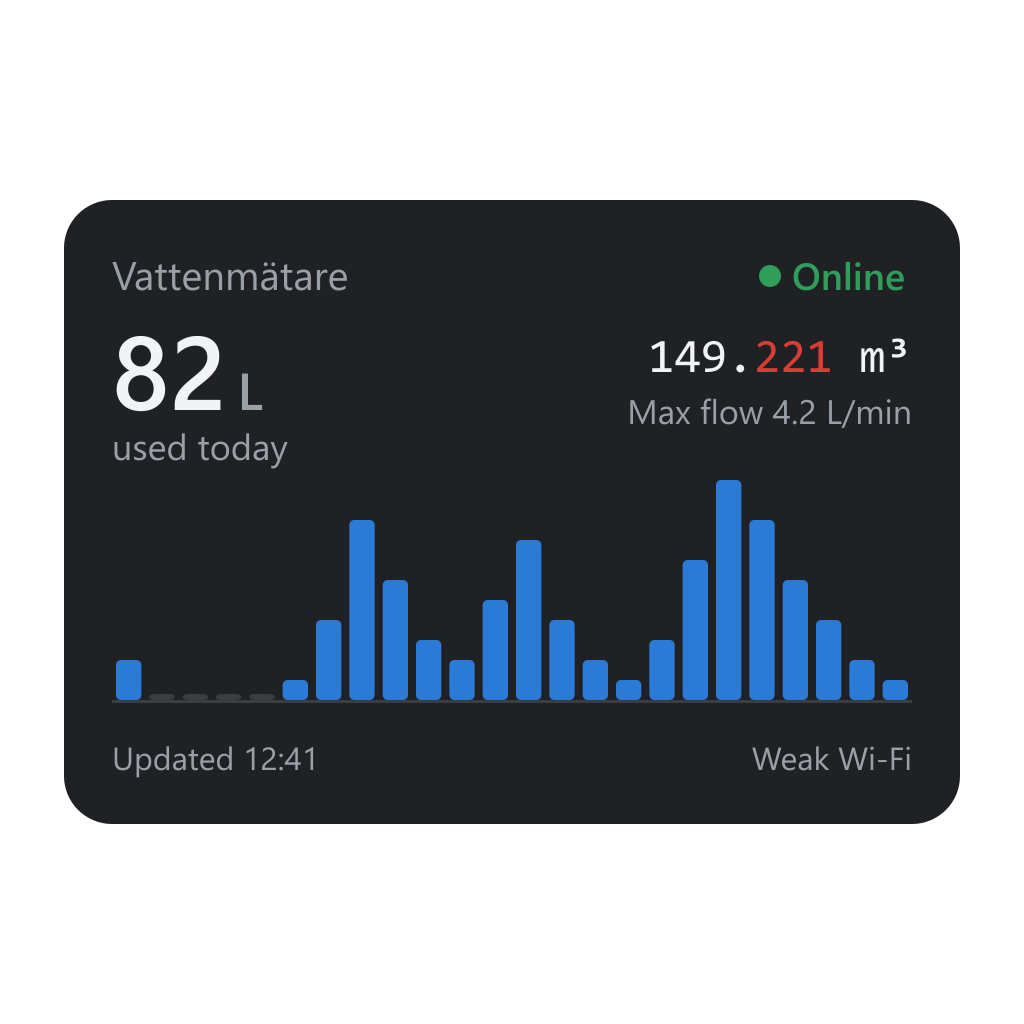
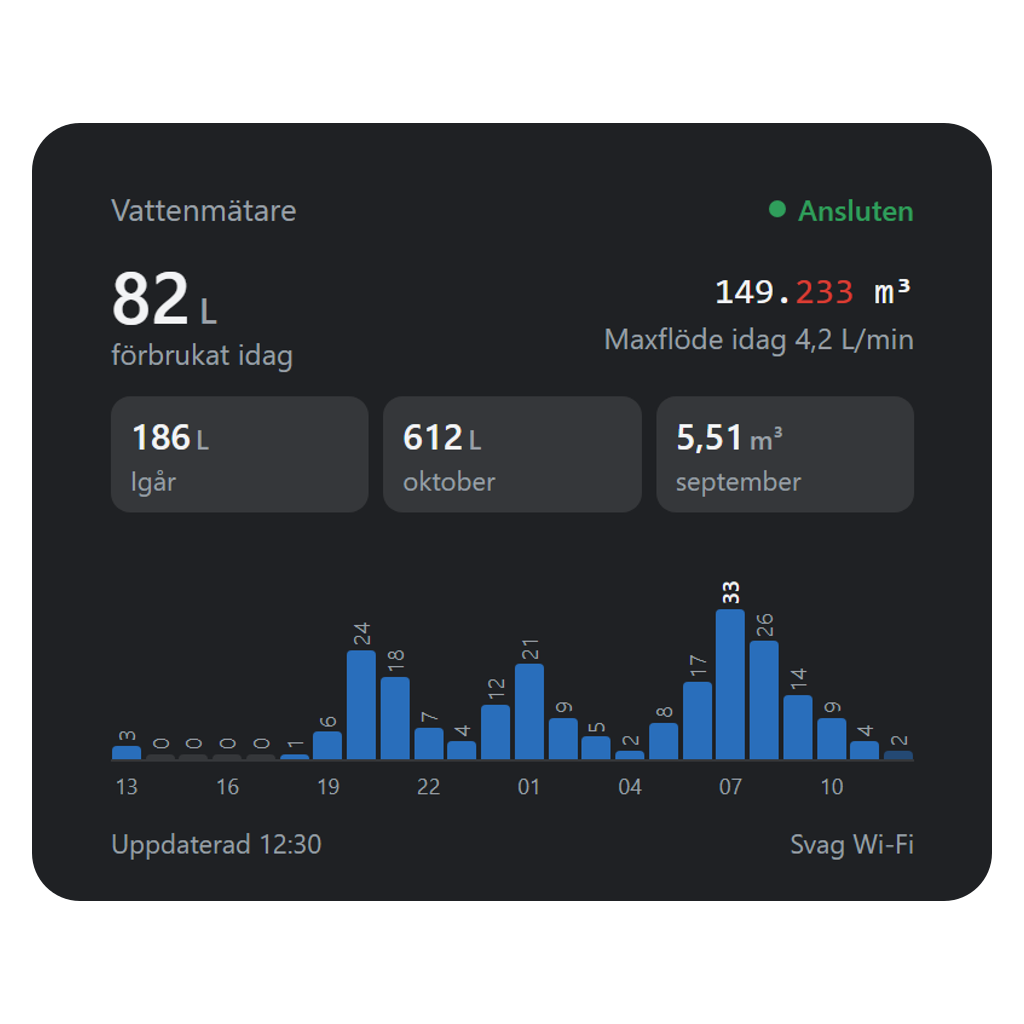
Widget: show litres per hour, yesterday and monthly use
- Print each hour's use above its bar in the 24 h chart
- Add yesterday, this month and last month; the device stores the
  meter reading at the start of each day and month and keeps the
  total of the period that just ended
- Periods not seen from their start (after install, or Homey off at
  midnight) are marked partial and shown as "at least"
- Taller widget and new preview images rendered from the real widget

Changed region(s): [[0.0312, 0.0938, 0.9688, 0.9062], [0.0938, 0.25, 0.3438, 0.5], [0.375, 0.4062, 0.4688, 0.5]]

diff --git a/widgets/water-meter/public/index.html b/widgets/water-meter/public/index.html
@@ -28,11 +28,22 @@
       .wm-side { display: grid; justify-items: end; gap: 2px; text-align: right; }
       .wm-total { font-family: ui-monospace, "SF Mono", Menlo, Consolas, monospace; font-size: 15px; font-variant-numeric: tabular-nums; }
       .wm-total .red { color: var(--wm-bad); }
-      .wm-chart { display: flex; align-items: flex-end; gap: 2px; height: 64px; border-bottom: 1px solid var(--wm-line); }
-      .wm-chart i { flex: 1; min-height: 1px; background: var(--wm-accent); border-radius: 2px 2px 0 0; opacity: 0.85; }
-      .wm-chart i.zero { background: var(--wm-line); opacity: 1; }
-      .wm-chart i.now { opacity: 0.45; }
-      .wm-ticks { display: flex; justify-content: space-between; font-size: 10px; color: var(--wm-muted); margin-top: -6px; font-variant-numeric: tabular-nums; }
+
+      .wm-periods { display: grid; grid-template-columns: repeat(3, minmax(0, 1fr)); gap: 6px; }
+      .wm-period { display: grid; gap: 1px; padding: 6px 8px; border-radius: 8px; background: var(--wm-line); min-width: 0; }
+      .wm-period b { font-size: 15px; font-weight: 600; font-variant-numeric: tabular-nums; white-space: nowrap; }
+      .wm-period b small { font-size: 11px; font-weight: 500; color: var(--wm-muted); margin-left: 2px; }
+      .wm-period span { font-size: 11px; color: var(--wm-muted); white-space: nowrap; overflow: hidden; text-overflow: ellipsis; }
+
+      .wm-chart { display: flex; align-items: stretch; gap: 1px; height: 92px; border-bottom: 1px solid var(--wm-line); }
+      .wm-col { flex: 1; min-width: 0; display: flex; flex-direction: column; justify-content: flex-end; align-items: center; gap: 2px; }
+      .wm-col em { font-style: normal; font-size: 9px; line-height: 1; color: var(--wm-muted); font-variant-numeric: tabular-nums; writing-mode: vertical-rl; transform: rotate(180deg); }
+      .wm-col.peak em { color: var(--wm-text); font-weight: 600; }
+      .wm-col i { display: block; width: 100%; max-width: 12px; background: var(--wm-accent); border-radius: 2px 2px 0 0; opacity: 0.85; }
+      .wm-col i.zero { background: var(--wm-line); opacity: 1; }
+      .wm-col.now i { opacity: 0.45; }
+      .wm-hours { display: flex; gap: 1px; margin-top: -6px; }
+      .wm-hours span { flex: 1; min-width: 0; text-align: center; font-size: 9px; color: var(--wm-muted); font-variant-numeric: tabular-nums; }
       .wm-foot { font-size: 11px; color: var(--wm-muted); }
       .wm-empty { font-size: 13px; color: var(--wm-muted); text-align: center; padding: 40px 8px; }
     </style>
@@ -40,22 +51,24 @@
 
   <body class="homey-widget">
     <div class="wm" id="wm">
-      <div class="wm-empty" id="empty">…</div>
+      <div class="wm-empty">…</div>
     </div>
 
     <script type="text/javascript">
       const TEXT = {
         en: {
-          today: 'used today', since: 'since midnight', flow: 'Flow', maxFlow: 'Max flow today',
+          today: 'used today', flow: 'Flow', maxFlow: 'Max flow today',
+          yesterday: 'Yesterday', thisMonth: 'This month', lastMonth: 'Last month', partial: 'partial',
           online: 'Online', offline: 'Offline', noDevice: 'Add a wimbib device to see your water use.',
-          noData: 'Waiting for the first reading…', updated: 'Updated', hours: 'Last 24 h',
+          noData: 'Hourly use appears after the first full hour.', updated: 'Updated', perHour: 'L per hour',
           alarm: { leak: 'Leak alarm', burst: 'Burst alarm', dry: 'Dry alarm', reverse: 'Reverse flow' },
           signal: { good: 'Good Wi-Fi', fair: 'Fair Wi-Fi', weak: 'Weak Wi-Fi', poor: 'Poor Wi-Fi' },
         },
         sv: {
-          today: 'förbrukat idag', since: 'sedan midnatt', flow: 'Flöde', maxFlow: 'Maxflöde idag',
+          today: 'förbrukat idag', flow: 'Flöde', maxFlow: 'Maxflöde idag',
+          yesterday: 'Igår', thisMonth: 'Denna månad', lastMonth: 'Förra månaden', partial: 'ofullständig',
           online: 'Ansluten', offline: 'Ej ansluten', noDevice: 'Lägg till en wimbib-enhet för att se din vattenförbrukning.',
-          noData: 'Väntar på första avläsningen…', updated: 'Uppdaterad', hours: 'Senaste 24 h',
+          noData: 'Förbrukning per timme visas efter första hela timmen.', updated: 'Uppdaterad', perHour: 'L per timme',
           alarm: { leak: 'Läcklarm', burst: 'Spricklarm', dry: 'Torrlarm', reverse: 'Backflöde' },
           signal: { good: 'Bra Wi-Fi', fair: 'Okej Wi-Fi', weak: 'Svag Wi-Fi', poor: 'Dålig Wi-Fi' },
         },
@@ -65,8 +78,11 @@
       let device = null;
 
       const root = document.getElementById('wm');
-      const fmt = (n, d) => n == null ? '–' : Number(n).toLocaleString(lang === 'sv' ? 'sv-SE' : 'en-GB', { minimumFractionDigits: d, maximumFractionDigits: d });
-      const clock = (ms) => new Date(ms).toLocaleTimeString(lang === 'sv' ? 'sv-SE' : 'en-GB', { hour: '2-digit', minute: '2-digit' });
+      const locale = () => (lang === 'sv' ? 'sv-SE' : 'en-GB');
+      const fmt = (n, d) => n == null ? '–' : Number(n).toLocaleString(locale(), { minimumFractionDigits: d, maximumFractionDigits: d });
+      const clock = (ms) => new Date(ms).toLocaleTimeString(locale(), { hour: '2-digit', minute: '2-digit' });
+      const hour = (ms) => new Date(ms).toLocaleTimeString(locale(), { hour: '2-digit' }).replace(/\D/g, '');
+      const monthName = (period) => period ? new Date(period + '-01T12:00:00Z').toLocaleDateString(locale(), { month: 'long' }) : '';
       const esc = (s) => String(s).replace(/[&<>"]/g, (c) => ({ '&': '&amp;', '<': '&lt;', '>': '&gt;', '"': '&quot;' }[c]));
 
       function signal(rssi) {
@@ -84,10 +100,12 @@
         return { cls: 'ok', text: t.online };
       }
 
-      function litres(l) {
-        if (l == null) return '–';
-        if (l >= 1000) return fmt(l / 1000, 2) + '<small>m³</small>';
-        return fmt(l, 0) + '<small>L</small>';
+      // Volume with unit; a partial period (not seen from its start) is shown as "at least"
+      function volume(p) {
+        if (!p || p.litres == null) return '–';
+        const prefix = p.partial ? '≥ ' : '';
+        if (p.litres >= 1000) return prefix + fmt(p.litres / 1000, 2) + '<small>m³</small>';
+        return prefix + fmt(p.litres, 0) + '<small>L</small>';
       }
 
       function register(total) {
@@ -96,16 +114,23 @@
         return whole + '.<span class="red">' + dec + '</span> m³';
       }
 
+      function period(label, p, sub) {
+        const title = p && p.partial ? ' title="' + t.partial + '"' : '';
+        return '<div class="wm-period"' + title + '><b>' + volume(p) + '</b><span>' + esc(sub || label) + '</span></div>';
+      }
+
       function chart(hourly) {
         const max = Math.max(1, ...hourly.map((h) => h.litres));
-        const bars = hourly.map((h, i) => {
-          const pct = (h.litres / max) * 100;
-          const cls = h.litres === 0 ? 'zero' : (i === hourly.length - 1 ? 'now' : '');
-          return '<i class="' + cls + '" style="height:' + Math.max(2, pct) + '%" title="' + clock(Date.parse(h.t)) + ' · ' + h.litres + ' L"></i>';
+        const peak = hourly.reduce((a, b) => (b.litres > a.litres ? b : a), hourly[0]);
+        const cols = hourly.map((h, i) => {
+          const cls = 'wm-col' + (i === hourly.length - 1 ? ' now' : '') + (h === peak && h.litres > 0 ? ' peak' : '');
+          const height = Math.max(2, (h.litres / max) * 62);
+          return '<div class="' + cls + '" title="' + clock(Date.parse(h.t)) + ' · ' + h.litres + ' L">'
+            + '<em>' + h.litres + '</em>'
+            + '<i class="' + (h.litres === 0 ? 'zero' : '') + '" style="height:' + height + 'px"></i></div>';
         }).join('');
-        const first = hourly.length ? clock(Date.parse(hourly[0].t)) : '';
-        return '<div class="wm-chart">' + bars + '</div>'
-          + '<div class="wm-ticks"><span>' + first + '</span><span>' + t.hours + '</span><span>' + clock(Date.now()) + '</span></div>';
+        const hours = hourly.map((h, i) => '<span>' + (i % 3 === 0 ? hour(Date.parse(h.t)) : '') + '</span>').join('');
+        return '<div class="wm-chart" aria-label="' + t.perHour + '">' + cols + '</div><div class="wm-hours">' + hours + '</div>';
       }
 
       function render() {
@@ -118,14 +143,20 @@
         const flowRow = d.flow != null
           ? t.flow + ' ' + fmt(d.flow, 1) + ' L/min'
           : (d.maxFlowDay != null ? t.maxFlow + ' ' + fmt(d.maxFlowDay, 1) + ' L/min' : '');
+        const hourly = (d.hourly || []).slice(-24);
 
         root.innerHTML = ''
           + '<div class="wm-head"><span class="wm-name">' + esc(d.name) + '</span><span class="wm-status ' + s.cls + '">' + esc(s.text) + '</span></div>'
           + '<div class="wm-main">'
-          + '<div class="wm-today"><span class="wm-big">' + litres(d.todayLitres) + '</span><span class="wm-label">' + t.today + '</span></div>'
+          + '<div class="wm-today"><span class="wm-big">' + volume(d.today) + '</span><span class="wm-label">' + t.today + '</span></div>'
           + '<div class="wm-side"><span class="wm-total">' + register(d.total) + '</span><span class="wm-label">' + flowRow + '</span></div>'
           + '</div>'
-          + (d.hourly && d.hourly.length ? chart(d.hourly) : '<div class="wm-empty" style="padding:20px 8px">' + t.noData + '</div>')
+          + '<div class="wm-periods">'
+          + period(t.yesterday, d.yesterday)
+          + period(t.thisMonth, d.month, d.month && monthName(d.month.period))
+          + period(t.lastMonth, d.lastMonth, d.lastMonth && monthName(d.lastMonth.period))
+          + '</div>'
+          + (hourly.length > 1 ? chart(hourly) : '<div class="wm-empty" style="padding:20px 8px">' + t.noData + '</div>')
           + '<div class="wm-foot"><span>' + (d.lastUpdate ? t.updated + ' ' + clock(d.lastUpdate) : '') + '</span><span>' + signal(d.wifiRssi) + '</span></div>';
       }
 

diff --git a/drivers/wimbib/device.js b/drivers/wimbib/device.js
@@ -11,6 +11,9 @@ const MAX_FAILED_POLLS = 3;
 // Hourly meter readings kept for the dashboard widget
 const HISTORY_HOURS = 24;
 
+// Litres used between two meter readings in m³
+const toLitres = (from, to) => Math.max(0, Math.round((to - from) * 1000));
+
 // m³/h -> L/min, the unit Homey uses for measure_water
 const M3H_TO_LMIN = 1000 / 60;
 
@@ -185,18 +188,46 @@ module.exports = class WimbibDevice extends Homey.Device {
       await this.setStoreValue('hourly', hourly.slice(-HISTORY_HOURS));
     }
 
+    // Local calendar periods, e.g. "2026-10-05" and "2026-10"
     const today = new Intl.DateTimeFormat('en-CA', { timeZone: this.homey.clock.getTimezone() }).format(now);
-    const dayStart = this.getStoreValue('dayStart');
-    if (!dayStart || dayStart.date !== today) {
-      await this.setStoreValue('dayStart', { date: today, v: total });
+    const yesterday = new Date(`${today}T00:00:00Z`);
+    yesterday.setUTCDate(yesterday.getUTCDate() - 1);
+    const lastMonth = new Date(`${today.slice(0, 7)}-01T00:00:00Z`);
+    lastMonth.setUTCMonth(lastMonth.getUTCMonth() - 1);
+
+    await this.rollPeriod('day', today, yesterday.toISOString().slice(0, 10), total);
+    await this.rollPeriod('month', today.slice(0, 7), lastMonth.toISOString().slice(0, 7), total);
+  }
+
+  /**
+   * Stores the meter reading at the start of a day or month. When a new period starts,
+   * the use of the one that just ended is kept as "previous". A period is partial when
+   * its start wasn't seen, e.g. right after install or when Homey was off at midnight.
+   */
+  async rollPeriod(name, current, previous, total) {
+    const start = this.getStoreValue(`${name}Start`);
+    if (start && start.period === current) {
+      return;
     }
+
+    const continuous = start != null && start.period === previous;
+    const ended = continuous
+      ? { period: previous, litres: toLitres(start.v, total), partial: !!start.partial }
+      : null;
+
+    await this.setStoreValue(`${name}Previous`, ended);
+    await this.setStoreValue(`${name}Start`, { period: current, v: total, partial: !continuous });
   }
 
   getWidgetData() {
     const total = this.getCapabilityValueOrNull('meter_water');
-    const dayStart = this.getStoreValue('dayStart');
     const hourly = this.getStoreValue('hourly') || [];
-    const toLitres = (from, to) => Math.max(0, Math.round((to - from) * 1000));
+    const sinceStart = (name) => {
+      const start = this.getStoreValue(`${name}Start`);
+      return typeof total === 'number' && start && start.v != null
+        ? { period: start.period, litres: toLitres(start.v, total), partial: !!start.partial }
+        : null;
+    };
 
     return {
       id: this.getData().id,
@@ -204,7 +235,10 @@ module.exports = class WimbibDevice extends Homey.Device {
       available: this.getAvailable(),
       lastUpdate: this.lastUpdate || null,
       total,
-      todayLitres: typeof total === 'number' && dayStart ? toLitres(dayStart.v, total) : null,
+      today: sinceStart('day'),
+      yesterday: this.getStoreValue('dayPrevious'),
+      month: sinceStart('month'),
+      lastMonth: this.getStoreValue('monthPrevious'),
       flow: this.getCapabilityValueOrNull('measure_water'),
       maxFlowDay: this.getCapabilityValueOrNull('measure_water.max_flow_day'),
       wifiRssi: this.getCapabilityValueOrNull('measure_signal_strength.wifi'),
